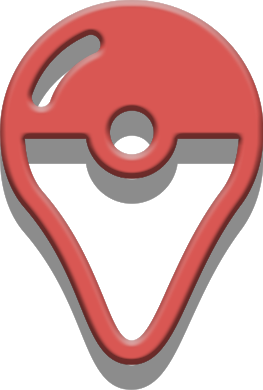
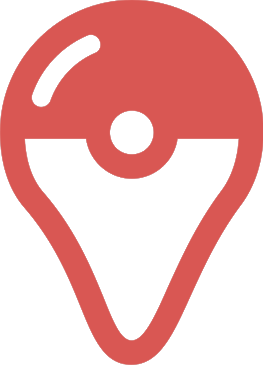
Adds Final FancyBuild Images & Cleans up Old Translations

Changed region(s): [[0.0, 0.1808, 1.0, 1.0], [0.0608, 0.0, 0.943, 0.3014]]

diff --git a/PoGo.Necrobot.Window/MainClientWindow.xaml b/PoGo.Necrobot.Window/MainClientWindow.xaml
@@ -253,12 +253,12 @@
             </TabControl.Resources>
             <TabItem Name="tabAccounts">
                 <TabItem.Header>
-                    <Image x:Name="accountsIMG" Source="Resources/accountsIMG.png" Width="32" RenderTransformOrigin="0.5,0.5" >
+                    <Image x:Name="accountsIMG" Source="Resources/AccountsImage.png" Width="32" RenderTransformOrigin="0.5,0.5" >
                         <Image.RenderTransform>
                             <TransformGroup>
                                 <ScaleTransform/>
                                 <SkewTransform/>
-                                <RotateTransform Angle="90.43"/>
+                                <RotateTransform Angle="90.00"/>
                                 <TranslateTransform/>
                             </TransformGroup>
                         </Image.RenderTransform>
@@ -300,12 +300,12 @@
             </TabItem>
             <TabItem Name="tabBrowser">
                 <TabItem.Header>
-                    <Image x:Name="browserIMG" Source="Resources/hubImage.png" Width="32" RenderTransformOrigin="0.5,0.5" Height="32" >
+                    <Image x:Name="browserIMG" Source="Resources/HubImage.png" Width="32" RenderTransformOrigin="0.5,0.5" Height="32" >
                         <Image.RenderTransform>
                             <TransformGroup>
                                 <ScaleTransform/>
                                 <SkewTransform/>
-                                <RotateTransform Angle="89.363"/>
+                                <RotateTransform Angle="90.000"/>
                                 <TranslateTransform/>
                             </TransformGroup>
                         </Image.RenderTransform>
@@ -317,12 +317,12 @@
             </TabItem>
             <TabItem Name="tabMap">
                 <TabItem.Header>
-                    <Image x:Name="mapImage" Source="Resources/mapImage.png" Width="32" RenderTransformOrigin="0.5,0.5" Height="32" >
+                    <Image x:Name="mapIMG" Source="Resources/MapImage.png" Width="32" RenderTransformOrigin="0.5,0.5" Height="32" >
                         <Image.RenderTransform>
                             <TransformGroup>
                                 <ScaleTransform/>
                                 <SkewTransform/>
-                                <RotateTransform Angle="89.934"/>
+                                <RotateTransform Angle="90.000"/>
                                 <TranslateTransform/>
                             </TransformGroup>
                         </Image.RenderTransform>
@@ -345,7 +345,7 @@
             </TabItem>
             <TabItem x:Name="tabSniper">
                 <TabItem.Header>
-                    <Image x:Name="sniperIMG" Source="Resources/sniperImage.png" Width="32" Height="32" />
+                    <Image x:Name="sniperIMG" Source="Resources/SniperImage.png" Width="32" Height="32" />
                 </TabItem.Header>
 
                 <local:SniperControl x:Name="ctrlSniper" DataContext="{Binding Path=SnipeList}" />
@@ -353,12 +353,12 @@
 
             <TabItem x:Name="tabConsole" IsSelected="True">
                 <TabItem.Header>
-                    <Image x:Name="consoleImage" Source="Resources/consoleImage.png" Width="32" RenderTransformOrigin="0.5,0.5" Height="32" >
+                    <Image x:Name="consoleIMG" Source="Resources/ConsoleImage.png" Width="32" RenderTransformOrigin="0.5,0.5" Height="32" >
                         <Image.RenderTransform>
                             <TransformGroup>
                                 <ScaleTransform/>
                                 <SkewTransform/>
-                                <RotateTransform Angle="89.811"/>
+                                <RotateTransform Angle="90.000"/>
                                 <TranslateTransform/>
                             </TransformGroup>
                         </Image.RenderTransform>
@@ -399,14 +399,50 @@
 
             </TabItem>
 
-            <TabItem FontSize="14" Header="{Binding Path= PokemonTabHeader, FallbackValue=Pokemon}" Name="tabPokemons">
+            <TabItem Name="tabPokemons">
+                <TabItem.Header>
+                    <Image x:Name="pokemonIMG" Source="Resources/PokemonImage.png" Width="32" Height="32" RenderTransformOrigin="0.5,0.5" >
+                        <Image.RenderTransform>
+                            <TransformGroup>
+                                <ScaleTransform/>
+                                <SkewTransform/>
+                                <RotateTransform Angle="90.000"/>
+                                <TranslateTransform/>
+                            </TransformGroup>
+                        </Image.RenderTransform>
+                    </Image>
+                </TabItem.Header>
                 <local:PokemonInventory x:Name="ctrPokemonInventory" DataContext="{Binding Path=PokemonList}"
                                         OnPokemonItemSelected="PokemonInventory_OnPokemonItemSelected" />
             </TabItem>
-            <TabItem FontSize="14" Name="tabItems" Header="{Binding Path=ItemsTabHeader, FallbackValue=Pokemon}">
+            <TabItem Name="tabItems">
+                <TabItem.Header>
+                    <Image x:Name="itemsIMG" Source="Resources/ItemsImage.png" Width="32" RenderTransformOrigin="0.5,0.5" >
+                        <Image.RenderTransform>
+                            <TransformGroup>
+                                <ScaleTransform/>
+                                <SkewTransform/>
+                                <RotateTransform Angle="90.000"/>
+                                <TranslateTransform/>
+                            </TransformGroup>
+                        </Image.RenderTransform>
+                    </Image>
+                </TabItem.Header>
                 <local:ItemsInventory DataContext="{Binding Path=ItemsList}" x:Name="ctrlItemControl" />
             </TabItem>
-            <TabItem FontSize="14" Name="tabEggs" Header="{Binding Source=EggTabHeader , Converter={StaticResource I18NConveter}}">
+            <TabItem Name="tabEggs">
+                <TabItem.Header>
+                    <Image x:Name="eggsIMG" Source="Resources/EggsImage.png" Width="32" Height="32" RenderTransformOrigin="0.5,0.5" >
+                        <Image.RenderTransform>
+                            <TransformGroup>
+                                <ScaleTransform/>
+                                <SkewTransform/>
+                                <RotateTransform Angle="90.000"/>
+                                <TranslateTransform/>
+                            </TransformGroup>
+                        </Image.RenderTransform>
+                    </Image>
+                </TabItem.Header>
                 <local:EggsControl DataContext="{Binding Path=EggsList}" x:Name="ctrlEggsControl" />
             </TabItem>
         </TabControl>

diff --git a/PoGo.Necrobot.Window/Properties/Resources.Designer.cs b/PoGo.Necrobot.Window/Properties/Resources.Designer.cs
@@ -63,9 +63,9 @@ namespace PoGo.Necrobot.Window.Properties {
         /// <summary>
         ///   Looks up a localized resource of type System.Drawing.Bitmap.
         /// </summary>
-        internal static System.Drawing.Bitmap accountsIMG {
+        internal static System.Drawing.Bitmap accountsImage {
             get {
-                object obj = ResourceManager.GetObject("accountsIMG", resourceCulture);
+                object obj = ResourceManager.GetObject("accountsImage", resourceCulture);
                 return ((System.Drawing.Bitmap)(obj));
             }
         }
@@ -93,6 +93,16 @@ namespace PoGo.Necrobot.Window.Properties {
         /// <summary>
         ///   Looks up a localized resource of type System.Drawing.Bitmap.
         /// </summary>
+        internal static System.Drawing.Bitmap EggsImage {
+            get {
+                object obj = ResourceManager.GetObject("EggsImage", resourceCulture);
+                return ((System.Drawing.Bitmap)(obj));
+            }
+        }
+        
+        /// <summary>
+        ///   Looks up a localized resource of type System.Drawing.Bitmap.
+        /// </summary>
         internal static System.Drawing.Bitmap hubImage {
             get {
                 object obj = ResourceManager.GetObject("hubImage", resourceCulture);
@@ -103,9 +113,29 @@ namespace PoGo.Necrobot.Window.Properties {
         /// <summary>
         ///   Looks up a localized resource of type System.Drawing.Bitmap.
         /// </summary>
+        internal static System.Drawing.Bitmap ItemsImage {
+            get {
+                object obj = ResourceManager.GetObject("ItemsImage", resourceCulture);
+                return ((System.Drawing.Bitmap)(obj));
+            }
+        }
+        
+        /// <summary>
+        ///   Looks up a localized resource of type System.Drawing.Bitmap.
+        /// </summary>
         internal static System.Drawing.Bitmap mapImage {
             get {
                 object obj = ResourceManager.GetObject("mapImage", resourceCulture);
+                return ((System.Drawing.Bitmap)(obj));
+            }
+        }
+        
+        /// <summary>
+        ///   Looks up a localized resource of type System.Drawing.Bitmap.
+        /// </summary>
+        internal static System.Drawing.Bitmap PokemonImage {
+            get {
+                object obj = ResourceManager.GetObject("PokemonImage", resourceCulture);
                 return ((System.Drawing.Bitmap)(obj));
             }
         }

diff --git a/PoGo.NecroBot.Logic/Common/UITranslation.cs b/PoGo.NecroBot.Logic/Common/UITranslation.cs
@@ -17,15 +17,8 @@ namespace PoGo.NecroBot.Logic.Common
         [Description("CLICK HERE TO EXIT")]
         public string ClickHereExit { get; set; }
 
-
         [Description("Accounts")]
         public string AccountSetting { get; set; }
-        
-        [Description("Map")]
-        public string MapTabTitle { get; set; }
-
-        [Description("Hub")]
-        public string BrowserTabTitle { get; set; }
 
         [Description("SNIPE")]
         public string SnipeText { get; set; }
@@ -33,23 +26,11 @@ namespace PoGo.NecroBot.Logic.Common
         [Description("ALL BOT SNIPE")]
         public string SnipeAllBotText { get; set; }
 
-        [Description("Helps")]
+        [Description("Help")]
         public string Help { get; set; }
-
-        [Description("Sniper")]
-        public string SniperTabTitle { get; set; }
         
         [Description("Bot switching account... ")]
         public string AccountSwitching { get; set; }
-
-        [Description("Eggs")]
-        public string EggTabHeader { get; set; }
-
-        [Description("Console")]
-        public string ConsoleTabTitle { get; set; }
-
-        [Description("Pokemon [{0}/{1}]")]
-        public string PokemonTabTitle { get; set; }
 
         [Description("Show Console")]
         public string ShowConsole { get; set; }
@@ -66,7 +47,7 @@ namespace PoGo.NecroBot.Logic.Common
         [Description("Disable Hub")]
         public string DisableHub { get; set; }
 
-        [Description("Setting")]
+        [Description("Settings")]
         public string MenuSetting { get; set; }
 
         [Description("Theme")]
